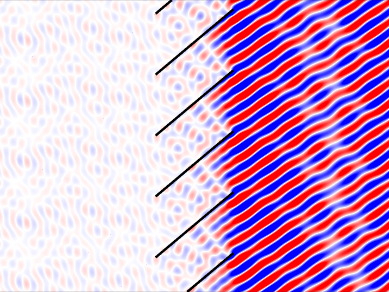
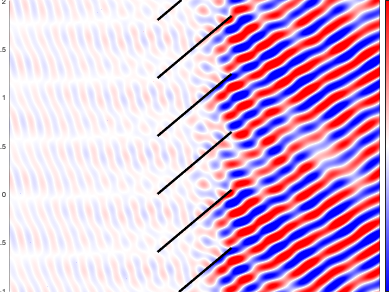
Final animations for README

diff --git a/animation.m b/animation.m
@@ -7,8 +7,8 @@ imageFolder = '../../images/';
 d = vaneDist*sin(stagAng*pi/180);
 s = vaneDist*cos(stagAng*pi/180);
 
-omega = 130*(1 + 1e-5i);
-ky = .3;
+omega = 100*(1 + 1e-5i);
+ky = .1;
 zy = -omega*ky;
 M = 0.3;
 m = 0;
@@ -23,7 +23,7 @@ if imag(kx)>1e-2, warning('The mode is not cut-on.'); return; end
 sigma = kx*delta*d + ky*omega*(s*Beta);
 sigmaTest = -(s*Beta)*zy + d*mysqrt(omega*w,(Beta*s*zy+2*m*pi)/(Beta*s));
 sigmao = sigma - d*omega*M^2*delta;
-C1 = .1;
+C1 = .01;
 %l
 %%
 ADData=struct('spac',   [s,d],...%Blade Spacing [h,d]
@@ -53,8 +53,8 @@ out = computeModes2(newADData,newAAData,Modes);
 xSurf = (1+sin(pi/2*linspace(-1,1)))/2;
 
 data=computeCoefficients(newADData,newAAData,out);
-x = [linspace(-6,0,400),xSurf,linspace(1,7,400)];
-y = newADData.spac(1)*(1+sin(linspace(-1,1,400)*pi/2))/2;
+x = [linspace(-6,0,300),xSurf,linspace(1,7,300)];
+y = newADData.spac(1)*(1+sin(linspace(-1,1,300)*pi/2))/2;
 [X,Y] = meshgrid(x,y);
 
 plotData = struct('X',X,...
@@ -67,14 +67,17 @@ type = 'pressure';
 
 h=computeField(newData,type);
 %%
-omeg = linspace(0,2*pi,80+1);omeg(1) = [];
-
+omeg = linspace(0,2*pi,60+1);omeg(1) = [];
+types = ["pressure","hvelocity"];
+for j = 1:2
+    h=computeField(newData,types(j));
 for l = 1:numel(omeg)
-figure(6)
-
-plotFieldTime(h,omeg(l),newADData,newAAData,plotData,type)
-caxis([-100,100])
+figure(j)
+plotFieldTime(h,omeg(l),newADData,newAAData,plotData,types(j))
+if j ==1; caxis([-100,100]); elseif j ==2 ; caxis([-30,30]); end
 set(gca,'Position',[0 0 1 1]);
-print(['animations/totalAnim',num2str(l,'%05.3d')],'-dpng','-r50');
+print(strcat('animations/totalAnim',types(j),num2str(l,'%05.3d')),'-dpng','-r50');
+l
+end
 end
 return

diff --git a/plotFieldTime.m b/plotFieldTime.m
@@ -63,7 +63,7 @@ for l = -nP:nP
    plot(real(rot*loc),imag(rot*loc),'k','LineWidth',5) 
 end
 
-xlims = [-2*real(rot),3*real(rot)];
+xlims = [-2.5*real(rot),3.5*real(rot)];
 axis equal
 xlim(xlims);
 
